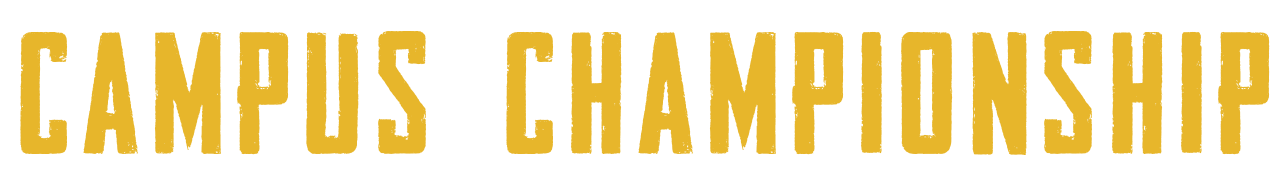
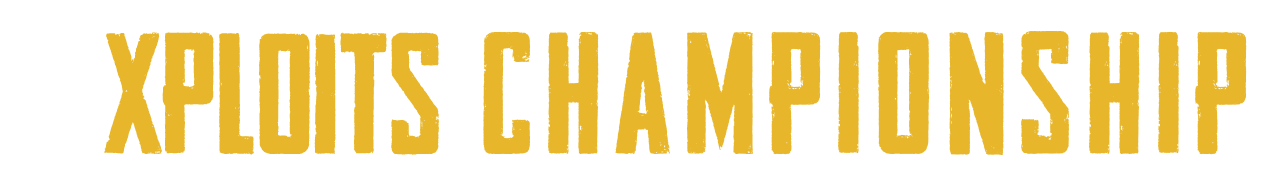
htfdwyudgwy

diff --git a/index1.html b/index1.html
@@ -142,7 +142,7 @@
 				            <div class="modal-header">
 				                <button type="button" class="close" data-dismiss="modal" aria-label="Close"><span class="ion-ios-close-empty"></span>
 				                </button>
-				                <span class="pe-7s-airplay services-icon-2"></span>
+				                <span class="pe-7s-note2 services-icon"></span>
 				                <h4 class="service-title">Paper Presentation</h4>
 				            </div>
 				            <div class="modal-body">
@@ -168,14 +168,14 @@
 				                	4. Please Mail your presentation to xploits2k18@gmail.com .<br/>
 				                	5. The Presentation should not have appeared in any other publications .<br/>
 				                	6. The student who wrote the paper must present; therefore, no substitute presenters are allowed.
-				                	7. Three members per Team
 
 				                </p>
 				                 <h5 class="heading-1 modal-heading mb20">Prize</h5>
                                  <p class="no-margin-bottom">
-                                  1st : 1500<br/>
-							      2nd : 1000<br/>
-                                  3rd : 750
+                                  1st : 3000<br/>
+							      2nd : 2000<br/>
+                                  3rd : 1000
+                  
 				                  </p>
 				            </div>
 				        </div><!-- /.modal-content -->
@@ -185,9 +185,9 @@
 				<!-- Item 2 -->
 				<div class="col-xs-12 col-sm-6 col-md-4 col-lg-4 mt30-xs">
 					<div class="services-box topReveal">
-						<span class="services-badge badge">New</span>
-						<span class="pe-7s-phone services-icon"></span>
-						<h3 class="service-name">2. Web Designing</h3>
+						<span class="services-badge badge" style="color: white">New</span>
+						<span class="pe-7s-anchor services-icon"></span>
+						<h3 class="service-name">2. Site Phishing</h3>
 						<p class="text-small"></p>
 						<button type="button" class="btn btn-default mt10" data-toggle="modal" data-target="#item2-services">Info</button>
 					</div>
@@ -199,27 +199,17 @@
 				            <div class="modal-header">
 				                <button type="button" class="close" data-dismiss="modal" aria-label="Close"><span class="ion-ios-close-empty"></span>
 				                </button>
-				                <span class="pe-7s-phone services-icon-2"></span>
-				                <h4 class="service-title">Web Designing</h4>
+				      	<span class="pe-7s-anchor services-icon"></span>
+				                <h4 class="service-title">Site Phishing</h4>
 				            </div>
 				            <div class="modal-body">
 				                <p></p>
-				                <h5 class="heading-1 modal-heading mb20">what Kind of topics are given?</h5>
-				                <p>
-				                	1.Topic like creating web pages for Companies and product.
-				                </p>
-				                <h5 class="heading-1 modal-heading mb20">Rules</h5>
-				                <p>
-				                	1. Participant cannot use internet and their own software.<br>
-				                	2.  All the necessary details will be given.<br>
-				                    3. The decision of judges will be final and no arguments or appeal will be entertained.<br/>
-				                	4. Bring your college ID-Card on event day.<br/>
-				                </p>
-				                <h5 class="heading-1 modal-heading mb20">Prize</h5>
-				                <p class="no-margin-bottom">
-				                	1st Price : 1000<br>
-				                	2nd Price : 500
-				                </p>
+				                <h5 class="heading-1 modal-heading mb20">Why us</h5>
+				                <p></p>
+				                <h5 class="heading-1 modal-heading mb20">Focusing</h5>
+				                <p></p>
+				                <h5 class="heading-1 modal-heading mb20">Professionals</h5>
+				                <p class="no-margin-bottom"></p>
 				            </div>
 				        </div><!-- /.modal-content -->
 				    </div><!-- /.modal-dialog -->
@@ -228,8 +218,8 @@
 				<!-- Item 3 -->
 				<div class="col-xs-12 col-sm-6 col-md-4 col-lg-4 mt30-sm mt30-xs">
 					<div class="services-box rightReveal">
-						<span class="pe-7s-camera services-icon"></span>
-						<h3 class="service-name">3. Debugging</h3>
+						<span class="pe-7s-credit services-icon"></span>
+						<h3 class="service-name">3. Logical Bug</h3>
 						<p class="text-small"></p>
 						<button type="button" class="btn btn-default mt10" data-toggle="modal" data-target="#item3-services">Info</button>
 					</div>
@@ -241,28 +231,17 @@
 				            <div class="modal-header">
 				                <button type="button" class="close" data-dismiss="modal" aria-label="Close"><span class="ion-ios-close-empty"></span>
 				                </button>
-				                <span class="pe-7s-camera services-icon-2"></span>
-				                <h4 class="service-title">Debugging</h4>
+				               		<span class="pe-7s-credit services-icon"></span>
+				                <h4 class="service-title">Logical Bug</h4>
 				            </div>
 				            <div class="modal-body">
 				                <p></p>
-				                <h5 class="heading-1 modal-heading mb20">Info</h5>
-				                <p>
-				                	1. Debuggging Language C , C++ , JAVA <br>
-				                	2. 10 students will be selected for Finals<br> 
-				                </p>
-				                <h5 class="heading-1 modal-heading mb20">Rules</h5>
-				                <p>
-				                	1. You have to Debug 25 Questions in 20 minutes<br>
-				                	2. Finalist students have to write and execute the code within 60 minutes based on given topic<br>
-				                	3. The decision of judges will be final and no arguments or appeal will be entertained.<br/>
-				                	4. Bring your college ID-Card on event day.<br/>
-				                </p>
-				                <h5 class="heading-1 modal-heading mb20">Prize</h5>
-				                <p class="no-margin-bottom">
-				                	1st Price : 1000<br>
-				                	2nd Price : 500
-				                </p>
+				                <h5 class="heading-1 modal-heading mb20">Why us</h5>
+				                <p></p>
+				                <h5 class="heading-1 modal-heading mb20">Focusing</h5>
+				                <p></p>
+				                <h5 class="heading-1 modal-heading mb20">Professionals</h5>
+				                <p class="no-margin-bottom"></p>
 				            </div>
 				        </div><!-- /.modal-content -->
 				    </div><!-- /.modal-dialog -->
@@ -271,9 +250,10 @@
 				<!-- Item 4 -->
 				<div class="col-xs-12 col-sm-6 col-md-4 col-lg-4 mt30">
 					<div class="services-box leftReveal">
-						<span class="services-badge badge">New</span>
-						<span class="pe-7s-anchor services-icon"></span>
-						<h3 class="service-name">4. ADZAP</h3>
+						<span class="services-badge badge" style="color: white">New</span>
+						<span class="pe-7s-phone services-icon"></span>
+						
+						<h3 class="service-name">4. Hack Track</h3>
 						<p class="text-small"></p>
 						<button type="button" class="btn btn-default mt10" data-toggle="modal" data-target="#item4-services">Info</button>
 					</div>
@@ -285,20 +265,16 @@
 				            <div class="modal-header">
 				                <button type="button" class="close" data-dismiss="modal" aria-label="Close"><span class="ion-ios-close-empty"></span>
 				                </button>
-				                <span class="pe-7s-anchor services-icon-2"></span>
-				                <h4 class="service-title">ADZAP</h4>
+				        	<span class="pe-7s-phone services-icon"></span>
+				                <h4 class="service-title">Hack Track</h4>
 				            </div>
 				            <div class="modal-body">
 				                <p></p>
-				                <h5 class="heading-1 modal-heading mb20">Rules</h5>
-				                <p> The team that takes minimal time for expressing their to the product to the audience will be given high mark.Monetary scenarios for that product are also demanded by judges.In a nutshell it's all about fabricating a scinllating ad for the given product    
-								</p>	
-				                <h5 class="heading-1 modal-heading mb20">Prize</h5>
-				                <p>
-				                	1st Price : 1000<br>
-				                	2nd Price : 500
-				                </p>
-				                <h5 class="heading-1 modal-heading mb20"></h5>
+				                <h5 class="heading-1 modal-heading mb20">Why us</h5>
+				                <p></p>
+				                <h5 class="heading-1 modal-heading mb20">Focusing</h5>
+				                <p></p>
+				                <h5 class="heading-1 modal-heading mb20">Professionals</h5>
 				                <p class="no-margin-bottom"></p>
 				            </div>
 				        </div><!-- /.modal-content -->
@@ -309,7 +285,7 @@
 				<div class="col-xs-12 col-sm-6 col-md-4 col-lg-4 mt30">
 					<div class="services-box bottomReveal">
 						<span class="pe-7s-users services-icon"></span>
-						<h3 class="service-name">5. Mock Interview</h3>
+						<h3 class="service-name">5. Reverse Coding</h3>
 						<p class="text-small"></p>
 						<button type="button" class="btn btn-default mt10" data-toggle="modal" data-target="#item5-services">Info</button>
 					</div>
@@ -322,24 +298,16 @@
 				                <button type="button" class="close" data-dismiss="modal" aria-label="Close"><span class="ion-ios-close-empty"></span>
 				                </button>
 				                <span class="pe-7s-users services-icon-2"></span>
-				                <h4 class="service-title">Mock Interview</h4>
+				                <h4 class="service-title">Reverse Coding</h4>
 				            </div>
 				            <div class="modal-body">
 				                <p></p>
-				                <h5 class="heading-1 modal-heading mb20">About the interviewing contest?</h5>
-				                <p>
-				                	It is an event,which involves the process for the selection of students  filtered through various rounds. The first round is an aptitude round where various skills like technical, logical,quantitative and general knowledge of the participants are tested.Each individual will be a set of questions that has to be answered.The best of them be qualified for the next.In this round,each individual  will be interviwed by our professional team on various skills.
-				                </p>
-				                <h5 class="heading-1 modal-heading mb20">On what basis will the final winners will be selected?</h5>
-				                <p>
-				                	Each participant will be interacting with our team.Our team will select the winners from among the participants who turn out to be the best to work in a team.importance will be given to their communication skills and technical skill
-
-				                </p>
-				                <h5 class="heading-1 modal-heading mb20">Prize</h5>
-				                <p class="no-margin-bottom">
-				                	1st Price : 1000<br>
-				                	2nd Price : 500
-				                </p>
+				                <h5 class="heading-1 modal-heading mb20">Why us</h5>
+				                <p></p>
+				                <h5 class="heading-1 modal-heading mb20">Focusing</h5>
+				                <p></p>
+				                <h5 class="heading-1 modal-heading mb20">Professionals</h5>
+				                <p class="no-margin-bottom"></p>
 				            </div>
 				        </div><!-- /.modal-content -->
 				    </div><!-- /.modal-dialog -->
@@ -348,36 +316,15 @@
 				<!-- Item 6 -->
 				<div class="col-xs-12 col-sm-6 col-md-4 col-lg-4 mt30">
 					<div class="services-box rightReveal">
-						<span class="services-badge badge">New</span>
-						<span class="pe-7s-volume services-icon"></span>
-						<h3 class="service-name">6. Just A Minute</h3>
+						<span class="services-badge badge" style="color: white">New</span>
+						<span class="pe-7s-medal services-icon"></span>
+						<h3 class="service-name">6. PUBG</h3>
 						<p class="text-small"></p>
-						<button type="button" class="btn btn-default mt10" data-toggle="modal" data-target="#item6-services">Info</button>
+						<a href="pubg.html" target="_blank">
+						<button type="button" class="btn btn-default mt10" data-toggle="modal" data-target="#item6-services">Info</button></a>
 					</div>
 				</div><!-- /.column -->	
-			    <!-- Item 6 Modal -->
-				<div class="modal fade" id="item6-services" tabindex="-1" role="dialog">
-				    <div class="modal-dialog">
-				        <div class="modal-content">
-				            <div class="modal-header">
-				                <button type="button" class="close" data-dismiss="modal" aria-label="Close"><span class="ion-ios-close-empty"></span>
-				                </button>
-				                <span class="pe-7s-volume services-icon-2"></span>
-				                <h4 class="service-title">Just A Minute</h4>
-				            </div>
-				            <div class="modal-body">
-				                <p></p>
-				                <h5 class="heading-1 modal-heading mb20">Objective</h5>
-				                <p>The objectives of the games is for panelist to talk for sixty seconds on a given subject "Without hesitation,repetation or deviation".                                
-                    </p>
-				                <h5 class="heading-1 modal-heading mb20"></h5>
-				                <p></p>
-				                <h5 class="heading-1 modal-heading mb20"></h5>
-				                <p class="no-margin-bottom"></p>
-				            </div>
-				        </div><!-- /.modal-content -->
-				    </div><!-- /.modal-dialog -->
-				</div><!-- /.modal -->
+			   
 			</div><!-- /.row -->
 			
 		</div><!-- /.container -->
@@ -539,7 +486,8 @@ SRM Nagar, Kattankulathur - 603 203.<br>
 			</div>
 		</div>
 		</section>
-	<br>
+		<br>
+	
 	<div id="map" >
 		<center>
 		
@@ -547,6 +495,7 @@ SRM Nagar, Kattankulathur - 603 203.<br>
 </iframe><br /><br />
 </center>
 	</div>
+	<!-- End Map -->
 
 	<!-- Begin Footer -->
 	<footer class="background2 footer-padding">
@@ -565,8 +514,7 @@ SRM Nagar, Kattankulathur - 603 203.<br>
 			<div class="row">
 				<div class="col-sm-8 col-sm-offset-2 text-small text-center">
 					<hr>
-					<a href="register.html" target="_blank">
-					<button type="button" class="btn btn-primary btn-up-footer btn-lg scroll-top">Register</button></a>
+					<a href="register.html" target="_blank"><button type="button" class="btn btn-primary btn-up-footer btn-lg scroll-top">Register</button></a>
 					<p class="no-margin">&copy; All Rights Are Reversed by Developers Team</p>
 				</div><!-- /.column -->
 			</div><!-- /.row -->

diff --git a/pcontact.html b/pcontact.html
@@ -730,7 +730,7 @@ color: #e7b62b;
 	<div  class="wpb_single_image wpb_content_element vc_align_center">
 		
 		<figure class="wpb_wrapper vc_figure">
-			<a href="mailto:xploits2k18@gmail.com" target="_blank" class="vc_single_image-wrapper   vc_box_border_grey"><img width="327" height="92" src="wp-content/uploads/2018/09/gmail.jpg" class="vc_single_image-img attachment-full" alt=""  style="height: 120px; width: 200px" /></a>
+			<a href="mailto:xploits2k18@gmail.com" target="_blank" class="vc_single_image-wrapper   vc_box_border_grey"><img width="327" height="92" src="wp-content/uploads/2018/09/gmail.png" class="vc_single_image-img attachment-full" alt=""  style="height: 120px; width: 200px" /></a>
 		</figure>
 	</div>
 
@@ -751,7 +751,7 @@ color: #e7b62b;
 	<div  class="wpb_single_image wpb_content_element vc_align_center">
 		
 		<figure class="wpb_wrapper vc_figure">
-			<a href="mailto:xploits2k18@gmail.com" target="_blank" class="vc_single_image-wrapper   vc_box_border_grey"><img width="327" height="92" src="wp-content/uploads/2018/09/gmail.jpg" class="vc_single_image-img attachment-full" alt="" style="height: 120px; width: 200px" /></a>
+			<a href="mailto:xploits2k18@gmail.com" target="_blank" class="vc_single_image-wrapper   vc_box_border_grey"><img width="327" height="92" src="wp-content/uploads/2018/09/gmail.png" class="vc_single_image-img attachment-full" alt="" style="height: 120px; width: 200px" /></a>
 		</figure>
 	</div>
 </div></div></div><div class="wpb_column vc_column_container vc_col-sm-4 vc_hidden-xs"><div class="vc_column-inner "><div class="wpb_wrapper">

diff --git a/pubg.html b/pubg.html
@@ -716,13 +716,13 @@ lsjQuery("#layerslider_1").layerSlider({createdWith: '6.7.6', sliderVersion: '6.
 	<div  class="wpb_single_image wpb_content_element vc_align_center">
 		
 		<figure class="wpb_wrapper vc_figure">
-			<div class="vc_single_image-wrapper   vc_box_border_grey"><img width="1285" height="196" src="wp-content/uploads/2018/08/Campus-Heading-1.png" class="vc_single_image-img attachment-full" alt="" srcset="http://pubgmobile.in/2018/wp-content/uploads/2018/08/Campus-Heading-1.png 1285w, http://pubgmobile.in/2018/wp-content/uploads/2018/08/Campus-Heading-1-300x46.png 300w, http://pubgmobile.in/2018/wp-content/uploads/2018/08/Campus-Heading-1-768x117.png 768w, http://pubgmobile.in/2018/wp-content/uploads/2018/08/Campus-Heading-1-1024x156.png 1024w" sizes="(max-width: 1285px) 100vw, 1285px" /></div>
+			<div class="vc_single_image-wrapper   vc_box_border_grey"><img width="1285" height="196" src="wp-content/uploads/2018/08/Campus-Heading-1.png" class="vc_single_image-img attachment-full" alt=""  sizes="(max-width: 1285px) 100vw, 1285px" /></div>
 		</figure>
 	</div>
 
 	<div class="wpb_text_column wpb_content_element " >
 		<div class="wpb_wrapper">
-			<h3 style="font-weight: 600; color: #e7b62b; text-align: center;">XploITs CHAMPIONSHIP is a PUBG MOBILE tournament exclusively for students featuring a total  prize pool of over 2K.</h3>
+			<h3 style="font-weight: 600; color: #e7b62b; text-align: center;">XploITs CHAMPIONSHIP is a PUBG MOBILE tournament exclusively for students featuring a total  prize pool of over ₹2000.</h3>
 
 		</div>
 	</div>
